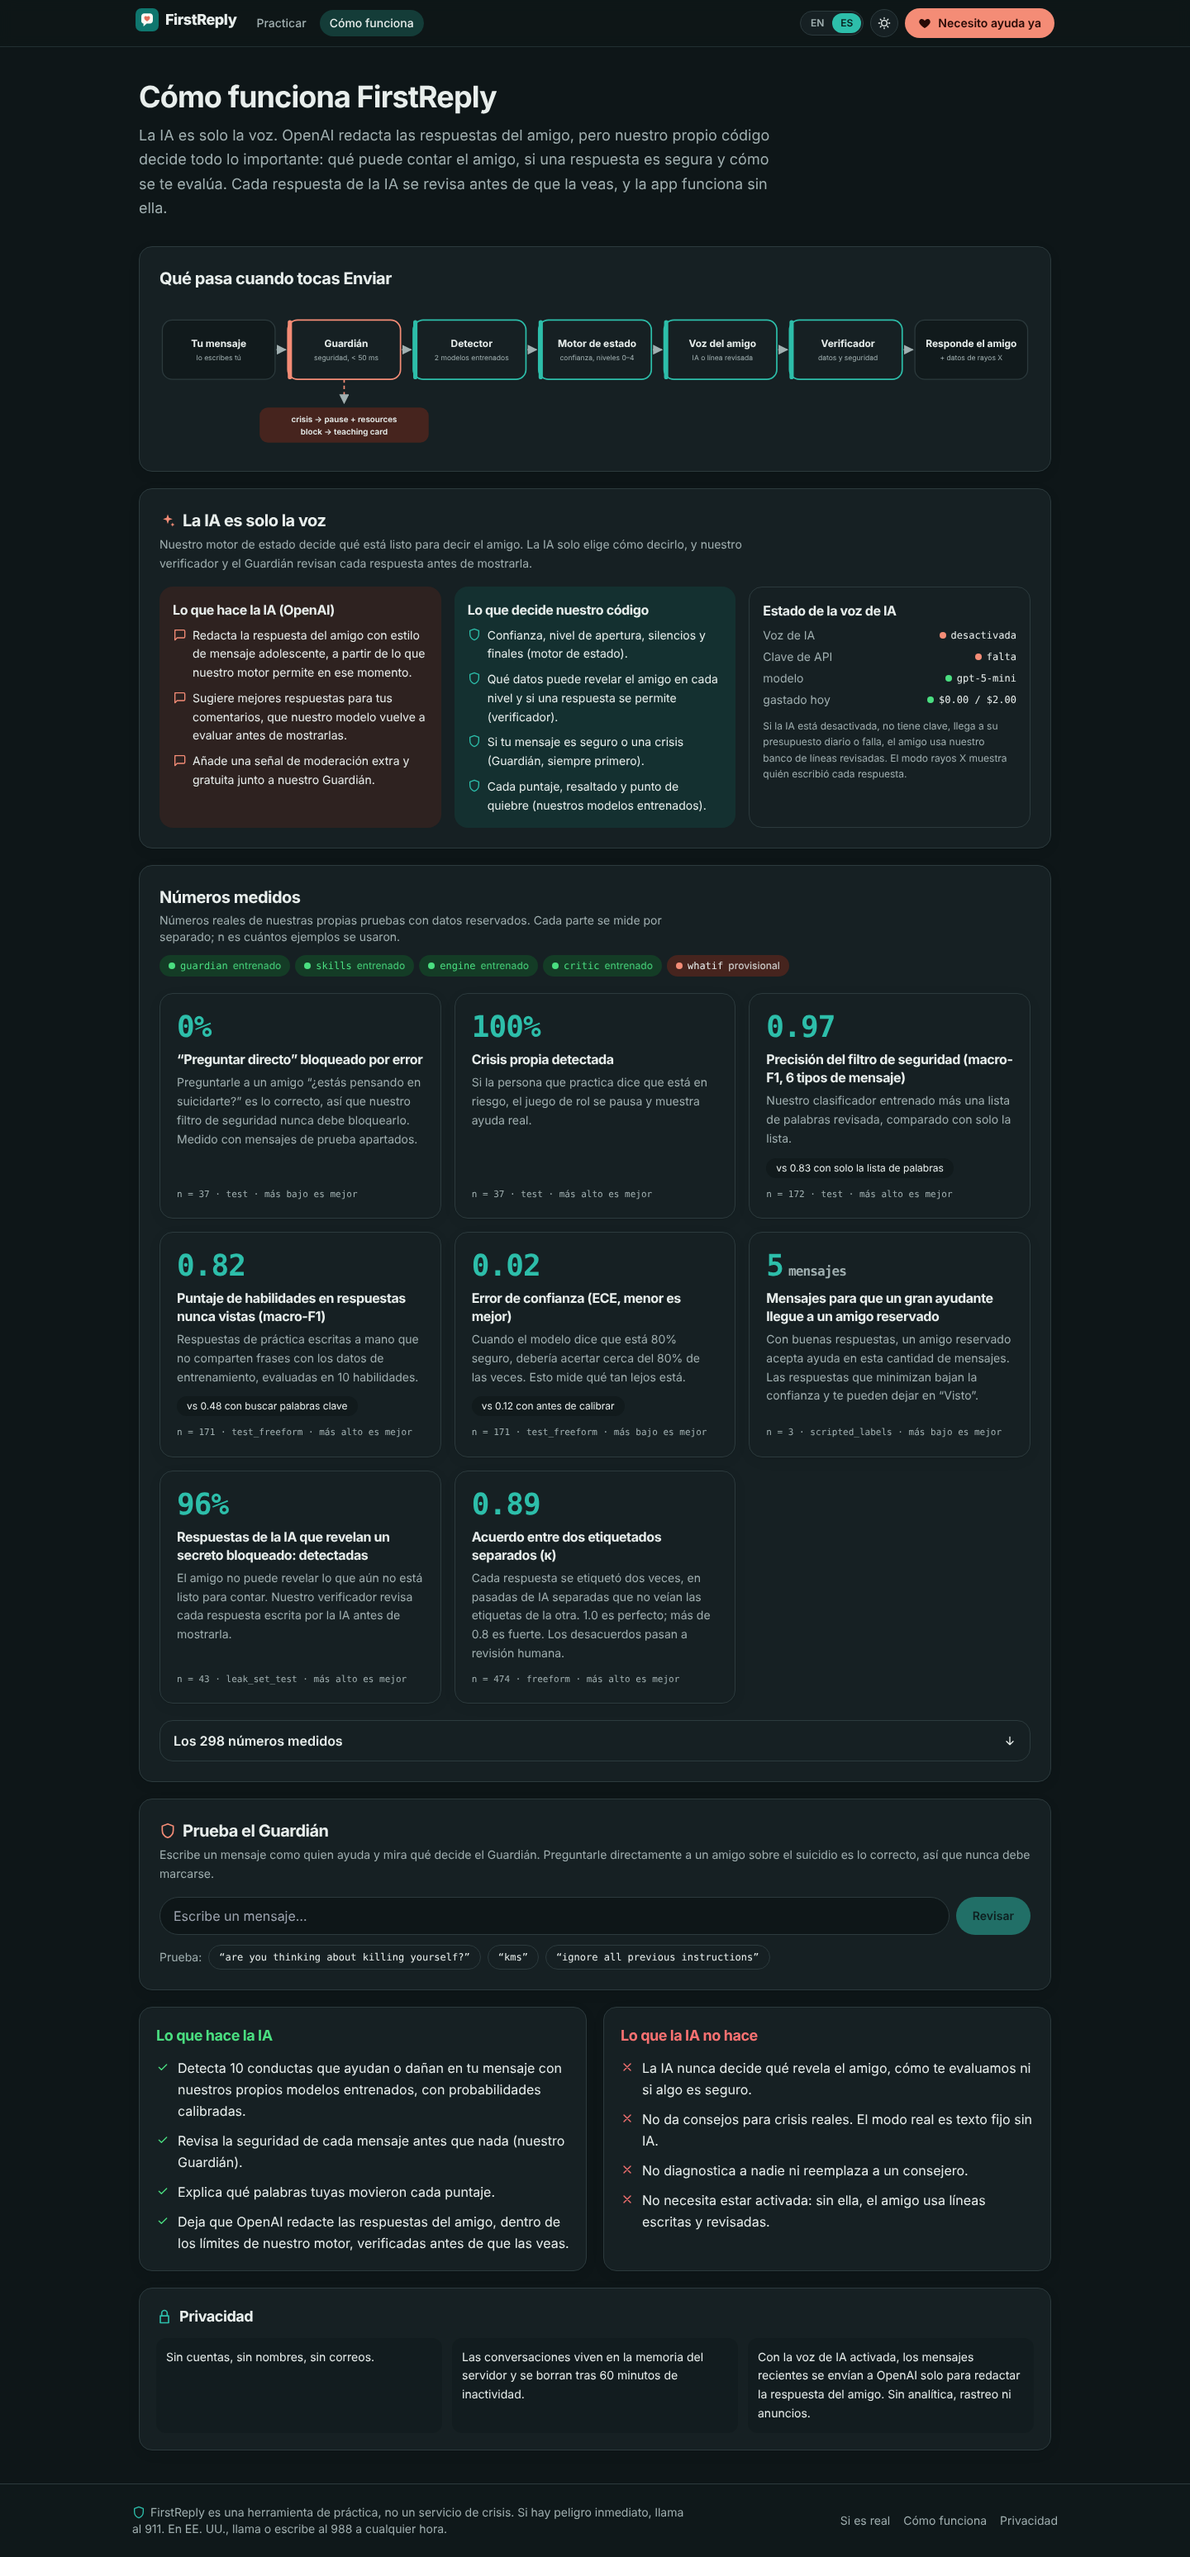
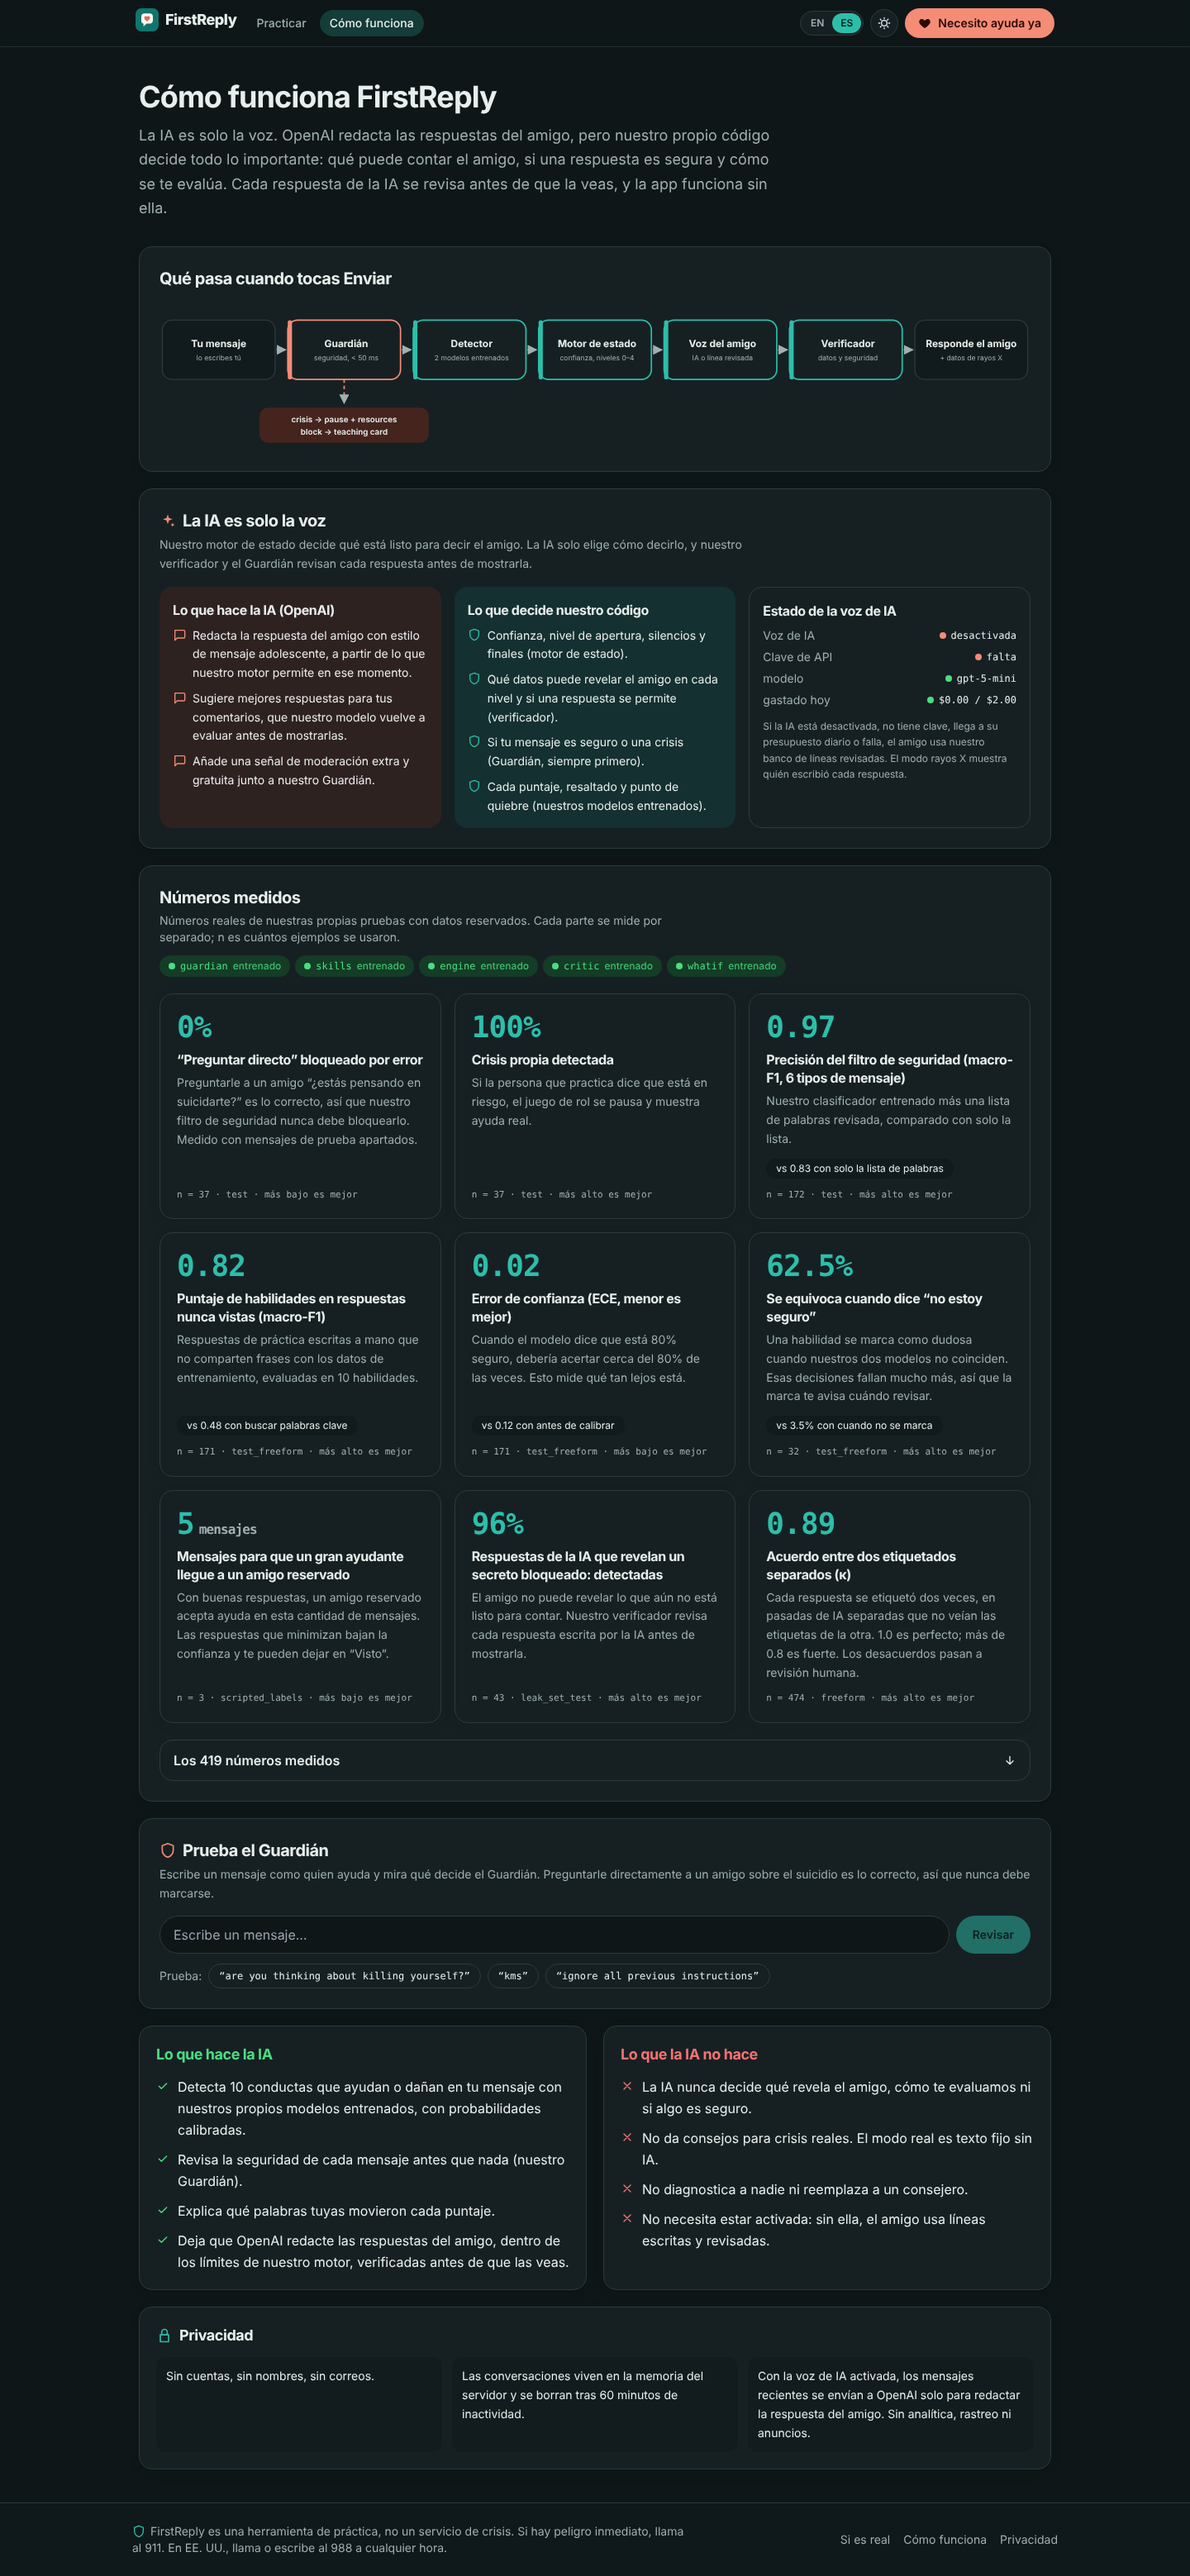
frontend: real what-if (skill match %, localized strategies, empty state) and Spanish what-if screenshot

diff --git a/frontend/src/pages/WhatIf.tsx b/frontend/src/pages/WhatIf.tsx
@@ -58,17 +58,23 @@ export function WhatIf() {
   }, [sessionId, nodeId]);
   useEffect(load, [load]);
 
+  // Exemplar strategies (check_in, validate, ask_directly, refer, follow_up, combo) in the UI language.
+  const strategyName = useCallback((s: string) => {
+    const name = t(`whatif.strategies.${s}`);
+    return name.startsWith('whatif.') ? s.replace(/_/g, ' ') : name;
+  }, [t]);
+
   const series = useMemo<Series[]>(() => {
     if (!result) return [];
     const simulated = result.paths.map((p, i) => ({
-      label: `${i + 1}. ${p.strategy.replace(/_/g, ' ')}`,
+      label: `${i + 1}. ${strategyName(p.strategy)}`,
       values: p.trust_series,
       color: i === result.best_index ? tokenColor('brand') : PATH_COLORS[i % PATH_COLORS.length],
       emphasis: (i === result.best_index ? 'best' : 'normal') as Series['emphasis'],
     }));
     const actual = actualSeries(nodes, result.from_node_id);
     return actual.length > 1 ? [...simulated, { label: t('whatif.you_said'), values: actual, color: tokenColor('muted'), emphasis: 'actual' }] : simulated;
-  }, [result, nodes, t]);
+  }, [result, nodes, t, strategyName]);
 
   async function tryInChat(text: string) {
     if (!result) return;
@@ -113,11 +119,23 @@ export function WhatIf() {
         </div>
       )}
 
-      <section className="card mt-6 p-5">
-        <h2 className="eyebrow mb-3">{t('whatif.overlay')}</h2>
-        <OverlayChart series={series} />
-        <p className="mt-2 text-xs text-muted">{t('whatif.simulated_hint')}</p>
-      </section>
+      {result.paths.length === 0 && (
+        <div className="card mt-6 p-8 text-center" role="status" data-testid="whatif-empty">
+          <Icon name="sparkle" className="mx-auto h-8 w-8 text-warm" />
+          <p className="mx-auto mt-3 max-w-md text-lg font-semibold">{t('whatif.empty')}</p>
+          <Link to={`/feedback/${sessionId}`} className="btn-ghost mt-5">
+            {t('whatif.back')}
+          </Link>
+        </div>
+      )}
+
+      {result.paths.length > 0 && (
+        <section className="card mt-6 p-5">
+          <h2 className="eyebrow mb-3">{t('whatif.overlay')}</h2>
+          <OverlayChart series={series} />
+          <p className="mt-2 text-xs text-muted">{t('whatif.simulated_hint')}</p>
+        </section>
+      )}
 
       <ol className="mt-6 grid gap-5 md:grid-cols-2 lg:grid-cols-3">
         {result.paths.map((path, i) => {
@@ -129,9 +147,12 @@ export function WhatIf() {
                 <span className="grid h-6 w-6 place-items-center rounded-full text-xs font-bold text-white" style={{ background: best ? tokenColor('brand') : PATH_COLORS[i % PATH_COLORS.length] }}>
                   {i + 1}
                 </span>
-                <span className="chip border-line font-mono">{path.strategy}</span>
+                <span className="chip border-line">{strategyName(path.strategy)}</span>
                 {best && <span className="chip border-transparent bg-brand text-brand-ink">★ {t('whatif.best')}</span>}
-                <span className="mono-num ml-auto text-xs text-muted">{t('whatif.score', { score: path.critic_score.toFixed(2) })}</span>
+                {/* critic_score = our detector's score (0–1) for the skill this reply teaches */}
+                <span className="mono-num ml-auto text-xs text-muted" title={t('whatif.score_hint')}>
+                  {t('whatif.score', { score: Math.round(path.critic_score * 100) })}
+                </span>
               </div>
               <p className="text-[15px] font-semibold leading-snug">“{path.candidate_text}”</p>
               <div className="my-3 space-y-1.5 rounded-2xl bg-sunken/70 p-3 text-sm">

diff --git a/frontend/src/test/whatif.test.tsx b/frontend/src/test/whatif.test.tsx
@@ -1,0 +1,33 @@
+import { render, screen } from '@testing-library/react';
+import { MemoryRouter, Route, Routes } from 'react-router-dom';
+import { PrefsProvider } from '../i18n';
+import { WhatIf } from '../pages/WhatIf';
+
+afterEach(() => vi.unstubAllGlobals());
+
+function mockApi(whatif: unknown) {
+  vi.stubGlobal(
+    'fetch',
+    vi.fn((url: string) => {
+      const body = url.includes('/whatif') ? whatif : { session_id: 's1', scenario_id: 'x', head_id: 'a', root_id: 'a', locale: 'en', state: {}, nodes: [] };
+      return Promise.resolve({ ok: true, status: 200, json: () => Promise.resolve(body) });
+    }),
+  );
+}
+
+describe('What-if page', () => {
+  it('shows a friendly message when no verified better reply exists', async () => {
+    mockApi({ from_node_id: 'u1', paths: [], best_index: 0, simulated: true });
+    render(
+      <PrefsProvider>
+        <MemoryRouter initialEntries={['/whatif/s1?node=u1']}>
+          <Routes>
+            <Route path="/whatif/:sessionId" element={<WhatIf />} />
+          </Routes>
+        </MemoryRouter>
+      </PrefsProvider>,
+    );
+    expect(await screen.findByTestId('whatif-empty')).toHaveTextContent("We couldn't find a verified better reply for this message. Try another one.");
+    expect(screen.queryByTestId('whatif-path')).not.toBeInTheDocument();
+  });
+});

diff --git a/docs/how/frontend.md b/docs/how/frontend.md
@@ -52,6 +52,8 @@ test/        vitest tests
 
 **One language per chat.** The scenario list is fetched in the UI language (`/api/scenarios?lang=es`), so titles, situations and content warnings are localized. Each friend lists the languages it supports (`locales`). In Spanish mode, English-only friends get a "Solo en inglés por ahora" chip, and starting one gives an English chat. The server decides the chat's language (`SessionView.locale`) and the friend never mixes languages. When the chat language differs from the UI, the chat header shows a small chip ("Práctica en inglés" / "Practice in Spanish"), but the UI language itself never changes. API text (feedback, what-if) is shown as the server sends it; the frontend never translates it.
 
+**What-if.** The real rollouts play scenario-specific exemplar replies up to three more turns through the real engine. Each card shows the reply's strategy (localized), its "Skill match" (our detector's 0–1 score for the skill the card teaches, as a percentage), a mini chat and a mini trust curve. The best path is the one with the highest value (trust, plus levels gained, a success bonus or fail penalty, and a small cost per extra turn). If no verified better reply exists, the page says so kindly instead of showing empty cards.
+
 **Measured numbers on /how.** The API sends a short curated list (`headline`, defined in `content/headline_metrics.json`) next to the ~300 raw evaluation records. Each headline becomes a card with a big number (percent, 2-decimal score, or a count of messages), a plain-language label and explanation in the UI language, an optional baseline ("0.82 vs 0.48 for keyword matching"), and a small "n = 171 · test_freeform · higher is better". Headlines that aren't measured yet (`found: false`) are hidden, and new ones appear without frontend changes. The raw records sit in a collapsed `<details>` ("All 298 measured numbers"), grouped by lane, with a search box and a scrollable area, so the page stays short.
 
 **Rewind.** The server keeps the whole conversation as a tree. "Rewind to here" moves the head back to the friend's message before yours and puts your old text in the input box so you can edit it. The branch drawer draws the tree: straight runs stay in one column, and only real forks are indented, so it stays readable on a phone.
@@ -67,8 +69,8 @@ test/        vitest tests
 
 ## How we measured it (real numbers, with n and the split)
 
-- **Unit tests:** 60 vitest tests in 9 files (`npm run test`), covering the typing delay formula and its edges, highlight span rendering, trust-math formatting, API error handling (404/422/network down/non-JSON), the Real-mode offline fallback, EN/ES key parity, the crisis card not being skippable, the check-in, the X-ray voice chip, and the tree/graph helpers.
-- **End-to-end:** `npm run screenshots` drives the whole journey in real Chromium against `make dev-stub`, on a phone (390×844) and a desktop (1440×900). It fails if any step breaks, if the crisis card can be skipped, if the X-ray trust math is missing, if there's any console error, or if the page scrolls sideways. Result: 28 screens × 2 sizes = 56 screenshots in `frontend/screenshots/`. The current set was taken against the **real** backend (`FR_EMBED=fastembed FR_LLM=0`: real Guardian, trained skill detector, tuned engine and critic; what-if still a stub). The same script also passes against `make dev-stub`.
+- **Unit tests:** 61 vitest tests in 10 files (`npm run test`), covering the typing delay formula and its edges, highlight span rendering, trust-math formatting, API error handling (404/422/network down/non-JSON), the Real-mode offline fallback, EN/ES key parity, the crisis card not being skippable, the check-in, the X-ray voice chip, and the tree/graph helpers.
+- **End-to-end:** `npm run screenshots` drives the whole journey in real Chromium against `make dev-stub`, on a phone (390×844) and a desktop (1440×900). It fails if any step breaks, if the crisis card can be skipped, if the X-ray trust math is missing, if there's any console error, or if the page scrolls sideways. Result: 29 screens × 2 sizes = 58 screenshots in `frontend/screenshots/`. The current set was taken against the **real** backend (`FR_EMBED=fastembed FR_LLM=0`: real Guardian, trained skill detector, tuned engine and critic; what-if real since 20afbfe). The same script also passes against `make dev-stub`.
 - **Accessibility:** every text/background token pair was checked against WCAG AA (4.5:1). The lowest pairs after tuning: white on the coral button 4.98, green on green-soft 5.36, white on the dark-mode bubble 5.93.
 - **Size:** about 86 KB gzipped app code + 63 KB gzipped charts (loaded as a separate cached chunk) + 7 KB CSS.
 

diff --git a/wt-notes/frontend.md b/wt-notes/frontend.md
@@ -6,7 +6,7 @@
 - App shell: sticky top bar, an always-visible **"I need help now"** button → `/real`, safety footer, EN/ES toggle (`src/i18n/*.json`, ES marked `needs_native_review`), dark mode (saved, no flash), design tokens in `src/index.css`.
 - Screens: Landing, Scenario picker + content warning, Chat (typing delays, staggered bubbles, Seen, crisis card, blocked card, success/fail endings, trust graph, disclosure ladder, skill chips, rewind, branch tree drawer), **X-ray mode** (Guardian level/action/latency/evidence, probability bars, trust math; friend reaction/line id/level), Feedback (radar, summary, turning point, missed opportunities, highlights, uncertain tags, verified rewrite, Try again from here, What if?), What-if (side-by-side paths, mini chats, mini curves, overlay chart, Simulated label, "Try this in the chat"), Real mode (country picker, tel:/sms: buttons, emergency number, **offline fallback** from bundled `content/` copies), Transparency (inline SVG pipeline, live component status, metrics table with empty state, does/doesn't, privacy, **Try the Guardian** with presets), after-session check-in, Privacy, 404.
 - Accessibility: keyboard everywhere, focus rings, focus-trapping dialogs, `aria-live="polite"` message list, chart text alternatives, WCAG AA token contrast (checked), reduced motion respected.
-- Tests: 60 vitest tests (typingDelay, highlights, trust math, API errors, Real-mode fallback, i18n parity, crisis card, check-in, shell, tree/graph helpers).
+- Tests: 61 vitest tests (typingDelay, highlights, trust math, API errors, Real-mode fallback, i18n parity, crisis card, check-in, shell, tree/graph helpers).
 - `scripts/screenshots.mjs`: full journey in Chromium (mobile 390×844 + desktop 1440×900) against `make dev-stub` → 50 screenshots in `frontend/screenshots/`. Fails on any broken step, a skippable crisis card, console errors or horizontal overflow.
 - **Contracts 1.2** (integrator d4e2b2b, merged): X-ray trust math uses the engine's real `State.last_breakdown` and shows only the total when it's empty. The rewrite badge shows `rewrite_skill` when present. The Privacy page (EN/ES) states the integrator's exact facts; the OpenAI-policy sentence is flagged for verification in `privacy._meta.verify`. Breakdown terms are shown to one decimal with friendly names (diminishing → "repeated", decay → "time"), plus a clamp note when trust hit 0 or 100 ("trust can't go below 0, actual change −5"). The 404.html workaround was removed now that `main.py` serves the SPA (deep links → 200, unknown /api → 404).
 
@@ -17,6 +17,8 @@
 - **Localized scenarios** (48263a9): Practice fetches `/scenarios?lang=` and shows "Solo en inglés por ahora" on friends without the UI language. Chat shows a neutral "Práctica en inglés" / "Practice in Spanish" chip when `SessionView.locale` differs from the UI language. 22/23 were re-shot with a real Spanish Maya session, plus `27-practice-es`. The journey also asserts the chip on an English-only friend started in ES.
 
 - **Headline metrics** (cc5cedb): /how shows curated headline cards (EN/ES label + explanation, baseline comparison, n · split · better) and hides `found=false`. The ~300 raw records sit in a collapsed, lane-grouped, searchable `<details>`. Desktop /how went from ~13,000 px to ~3,200 px. Re-shot 18/19 plus `28-how-es` against the real backend.
+
+- **Real what-if** (20afbfe): "Skill match N%" instead of "Critic score", localized strategy names, a friendly empty state when `paths` is `[]` (EN/ES, with a test). Re-shot 14 against the real backend, plus `29-whatif-es` (real Spanish Maya rollouts).
 
 ## In progress
 - Nothing. Lane is feature-complete against the stubs.
@@ -42,7 +44,7 @@
 - With every component stubbed, the summary text is the stub's placeholder and metrics are empty (the page shows a friendly empty state).
 
 ## Numbers
-- vitest: 60/60 passing (9 files).
+- vitest: 61/61 passing (10 files).
 - E2E journey: passes on mobile + desktop; 50 screenshots.
 - Bundle: app 264 KB (86 KB gzip), charts 179 KB (63 KB gzip, separate chunk), CSS 36 KB (7 KB gzip).
 - Lowest AA contrast pair: 4.98 (white on coral button, light mode).
